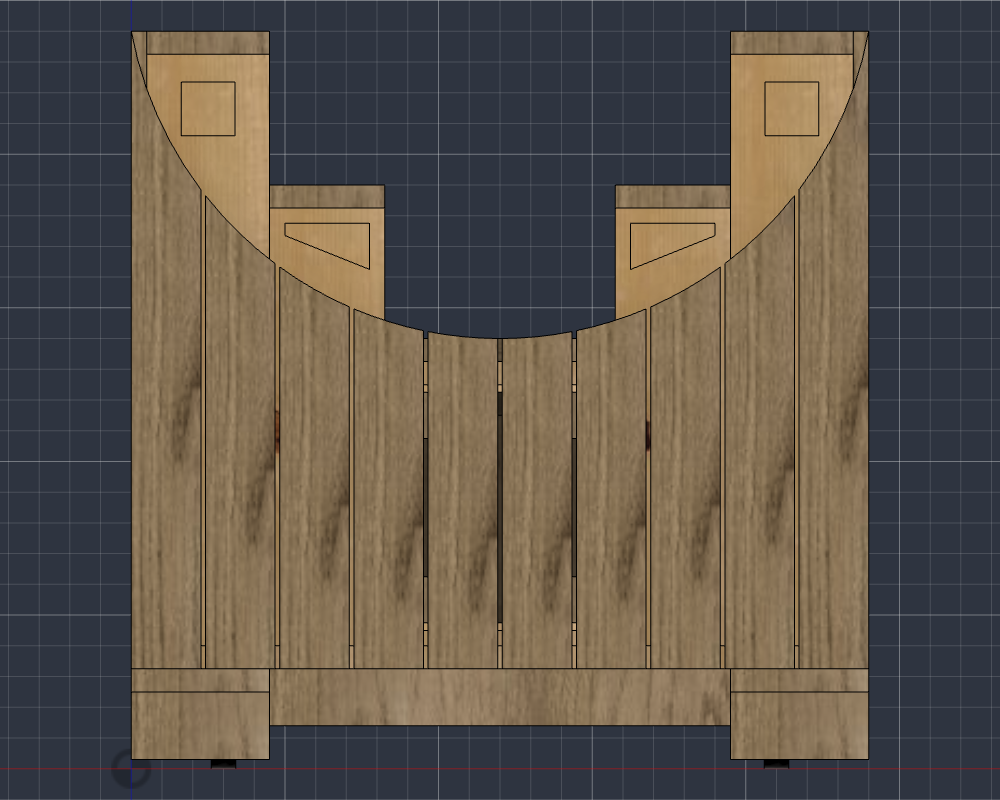
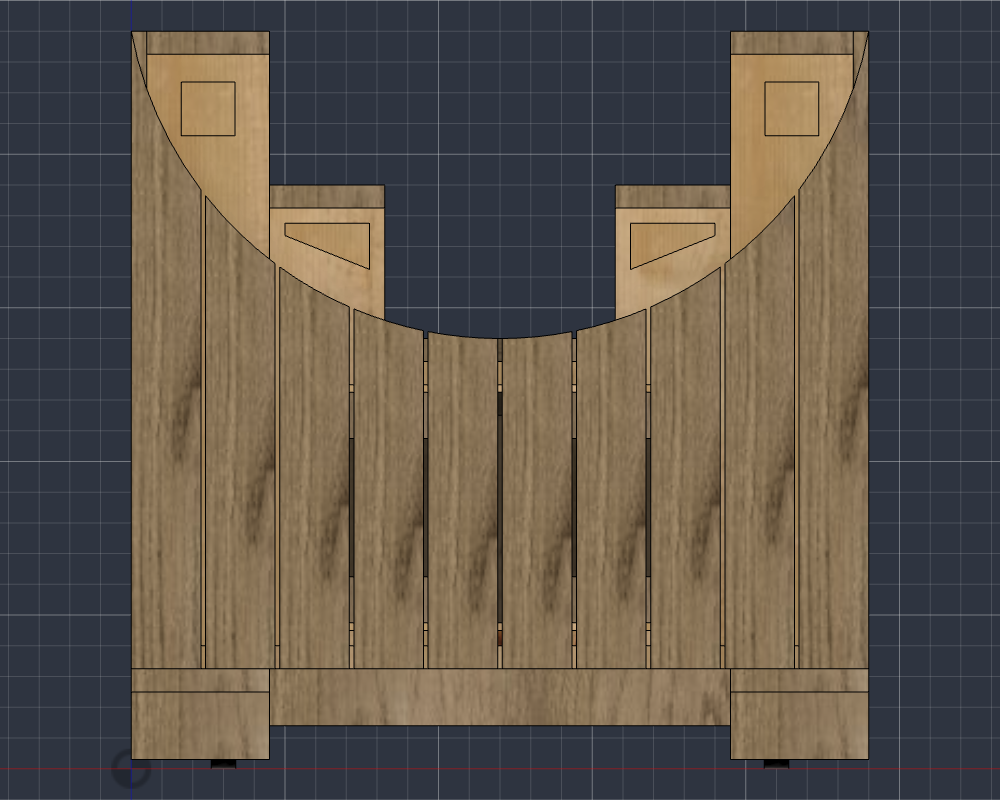
Cabinet: doors and drawer span the centre and both step sections
The doors and the pull-out drawer now use the whole middle of the front instead of only the 7.5 in centre
section: one front panel, no dividers D2/D3, a single bay with a 12 1/4 in wide drawer (was 5 3/4 in), and
shelves over the bay for the step compartments above (door_span="wide" default, "centre" keeps the old
layout). The drawer is narrowed so it clears the open doors; the kernel caught that collision.
97 parts, zero interferences in the kernel and in live Fusion.

Claude-Session: https://claude.ai/code/session_017uaZNskFZj1b2HNuTtwSco

diff --git a/src/fusionwright/cabinet.py b/src/fusionwright/cabinet.py
@@ -4,9 +4,9 @@ What the sketch shows and this generator models:
   * 24" W x 24" H x 22.5" D, vertical oak slats on all four sides (10 across front/back, 6 per side)
   * a large circular scoop: the front (and, by default, back) slat tops follow one arc from the two top corners
     down to the centre height, so the slats are real arc-cut parts
-  * a pair of hinged front doors in the middle section (the framed panel under the scoop in the 3/4 view): two
-    slats on two oak battens each, two hinges per door on the outer edges, push-to-open (no visible pull), opening
-    onto the large centre compartment that holds one pull-out drawer
+  * a pair of hinged front doors across the middle three sections (the framed panel under the scoop in the 3/4
+    view), two hinges per door on the outer edges, push-to-open (no visible pull), opening onto one large bay that
+    holds a single pull-out drawer
   * five hinged lids/doors side by side at three heights: towers 24", steps 19", centre 14"
   * stepped plywood carcass behind the slats; the carcass boxes stand proud of the arc; dark square openings on the
     tower fronts and dark wedge openings on the step fronts act as the finger pulls
@@ -57,6 +57,7 @@ def build_cabinet(
     door_open_deg: float = 0.0,
     door_pull: str = "push",
     door_leaves: int = 2,
+    door_span: str = "wide",
     drawer: bool = True,
     drawer_out: float = 0.0,
     drawer_depth: float = 18.0,
@@ -88,14 +89,18 @@ def build_cabinet(
         raise ValueError("door_pull must be 'push' (push-to-open, nothing visible) or 'bar' (slim vertical pull).")
     if not 0.0 <= door_open_deg <= 120.0:
         raise ValueError("door_open_deg must be between 0 and 120 degrees (0 = closed).")
+    if door_span not in ("wide", "centre"):
+        raise ValueError("door_span must be 'wide' (doors and drawer across the centre and both step sections, the "
+                         "default) or 'centre' (only the centre section).")
     if door_leaves not in (1, 2):
         raise ValueError("door_leaves must be 2 (a pair of doors, the default) or 1 (a single door hinged on the left).")
     if not 6.0 <= drawer_depth <= 20.0:
         raise ValueError("drawer_depth must be between 6 and 20 in (18 in matches standard full-extension slides).")
     if not 0.0 <= drawer_out <= drawer_depth - 2.0:
         raise ValueError(f"drawer_out must be between 0 and drawer_depth - 2 ({drawer_depth - 2:g}) in.")
-    if drawer_out and not (door and door_open_deg):
-        raise ValueError("The drawer is behind the doors: open them (door_open_deg > 0) before pulling the drawer out.")
+    if drawer_out and not (door and door_open_deg >= 90.0):
+        raise ValueError("The drawer is behind the doors: open them (door_open_deg of at least 90) before pulling the "
+                         "drawer out.")
 
     # scoop arc through the two top corners, lowest at the centre
     half, sag = width / 2, tower_h - center_h
@@ -111,6 +116,9 @@ def build_cabinet(
     for w in section_widths:
         x_edges.append(x_edges[-1] + w)
     y_front, y_back = skin_t, depth - skin_t        # inside faces of the front / back skin
+    wide = bool(door) and door_span == "wide"
+    sec_a, sec_b = (1, 3) if wide else (2, 2)       # first / last section behind the doors
+    x_lo, x_hi = x_edges[sec_a], x_edges[sec_b + 1]
     carcass_z = base_z + ply_t
 
     p = Project(
@@ -126,7 +134,7 @@ def build_cabinet(
                     base_z=base_z, caster_h=caster_h, plate_t=plate_t, foot_arm=foot_arm, foot_t=foot_t,
                     foot_clear=foot_clear, apron_z=apron_z, arc_on_back=arc_on_back, open_deg=open_deg, door=door,
                     door_open_deg=door_open_deg, door_pull=door_pull,
-                    door_leaves=door_leaves, drawer=drawer, drawer_out=drawer_out, drawer_depth=drawer_depth,
+                    door_leaves=door_leaves, door_span=door_span, drawer=drawer, drawer_out=drawer_out, drawer_depth=drawer_depth,
                     section_widths=[round(w, 4) for w in section_widths], scoop_radius=round(R, 4),
                     scoop_sag=sag),
     )
@@ -139,9 +147,29 @@ def build_cabinet(
 
     # ---------------------------------------------------------------- plywood carcass (my proposal)
     box_board("Bottom panel", "bottom panel", PLY, skin_t, skin_t, base_z, inner_w, inner_d, ply_t, "x")
+    if wide:                                        # one front wall across the centre and both step sections
+        tops = [heights[i] - lid_t for i in range(5)]
+        pts = [(x_edges[1], carcass_z), (x_edges[4], carcass_z), (x_edges[4], tops[3]), (x_edges[3], tops[3]),
+               (x_edges[3], tops[2]), (x_edges[2], tops[2]), (x_edges[2], tops[1]), (x_edges[1], tops[1])]
+        ops = [sh.prism("xz", sh.polygon(pts), y_front, y_front + ply_t)]
+        ox0, ox1 = x_lo + 0.4, x_hi - 0.4
+        oz0, oz1 = carcass_z + 0.5, tops[2] - 0.75
+        ops.append(sh.box(ox0, y_front - 0.05, oz0, ox1 - ox0, ply_t + 0.1, oz1 - oz0, "cut"))
+        door_open_box.update(x0=ox0, x1=ox1, z0=oz0, z1=oz1)
+        for i in (1, 3):                            # the wedge finger openings stay on the step sections
+            zt = tops[i] - 0.5
+            xa, xb = x_edges[i] + 0.5, x_edges[i + 1] - 0.5
+            wp = ([(xa, zt), (xb, zt), (xb, zt - 1.5), (xa, zt - 0.4)] if i == 1
+                  else [(xa, zt), (xb, zt), (xb, zt - 0.4), (xa, zt - 1.5)])
+            ops.append(sh.prism("xz", sh.polygon(wp), y_front - 0.05, y_front + ply_t + 0.05, "cut"))
+        add(Board.from_shape("Front wall S2-S4", "front wall", PLY, ops, None, "x",
+                             f"one panel across the three middle sections; {ox1 - ox0:.1f} in wide door opening for "
+                             "the doors and drawer, wedge finger openings above"))
     for i in range(5):
         wall_top = heights[i] - lid_t
         for side, y0 in (("Front", y_front), ("Back", y_back - ply_t)):
+            if wide and side == "Front" and i in (1, 2, 3):
+                continue
             sx0, sw = x_edges[i], section_widths[i]
             ops = [sh.box(sx0, y0, carcass_z, sw, ply_t, wall_top - carcass_z)]
             note = ""
@@ -150,7 +178,7 @@ def build_cabinet(
                 top = wall_top - 0.9
                 ops.append(sh.box(cx - s / 2, y0 - 0.05, top - s, s, ply_t + 0.1, s, "cut"))
                 note = "1-3/4 in square finger opening"
-            elif side == "Front" and i == 2 and door:              # access opening behind the front door
+            elif side == "Front" and i == 2 and door and not wide:  # access opening behind the front door
                 ox0, ox1 = sx0 + 0.4, sx0 + sw - 0.4
                 oz0, oz1 = carcass_z + 0.5, wall_top - 0.75
                 ops.append(sh.box(ox0, y0 - 0.05, oz0, ox1 - ox0, ply_t + 0.1, oz1 - oz0, "cut"))
@@ -170,9 +198,18 @@ def build_cabinet(
     box_board("End wall right", "end wall", PLY, width - skin_t - ply_t, y_front + ply_t, carcass_z, ply_t, wall_d,
               end_h, "y")
     for k in range(1, 5):
+        if wide and k in (2, 3):                    # the drawer bay runs through the middle: no dividers inside it
+            continue
         div_h = min(heights[k - 1], heights[k]) - lid_t - carcass_z
         box_board(f"Divider D{k}", "divider", PLY, x_edges[k] - ply_t / 2, y_front + ply_t, carcass_z, ply_t, wall_d,
                   div_h, "y")
+
+    if wide:                                        # shelves over the drawer bay roof the step compartments
+        bay_top = heights[2] - lid_t
+        for nm, xa, xb in (("Bay shelf S2", x_edges[1] + ply_t / 2, x_edges[2]),
+                           ("Bay shelf S4", x_edges[3], x_edges[4] - ply_t / 2)):
+            box_board(nm, "shelf", PLY, xa, y_front + ply_t, bay_top - ply_t, xb - xa, wall_d, ply_t, "x",
+                      "floor of the step compartment above, roof of the drawer bay")
 
     # ---------------------------------------------------------------- hinged lids / doors (hinged at the back)
     for i in range(5):
@@ -191,13 +228,13 @@ def build_cabinet(
 
     # ---------------------------------------------------------------- vertical oak slats, four sides
     sw_x, pitch_x = _slats(width, front_slats, slat_gap)
-    # front slats whose centre falls inside the centre section form the door(s)
+    # front slats whose centre falls inside the door span form the door(s)
     door_js = [j for j in range(front_slats)
-               if door and x_edges[2] < j * pitch_x + sw_x / 2 < x_edges[3]]
+               if door and x_lo < j * pitch_x + sw_x / 2 < x_hi]
     if door and not door_js:
-        raise ValueError("The centre section is too narrow for a door: use fewer front_slats or a wider section.")
+        raise ValueError("The door span is too narrow for a door: use fewer front_slats or a wider section.")
     if door and door_leaves == 2 and len(door_js) < 2:
-        raise ValueError("Two doors need at least two slats in the centre section: use more front_slats or door_leaves=1.")
+        raise ValueError("Two doors need at least two slats in the door span: use more front_slats or door_leaves=1.")
     leaves: list[dict] = []                           # each leaf: slat indices, hinge edge, name, rotation
     if door_js:
         if door_leaves == 2:
@@ -263,14 +300,20 @@ def build_cabinet(
     # ---------------------------------------------------------------- pull-out drawer behind the doors
     if door_js and drawer:
         t_d = 0.5                                                     # drawer sides / front / back (solid oak)
-        cx_c = (x_edges[2] + x_edges[3]) / 2
-        dw = (section_widths[2] - ply_t) - 1.0                        # 1/2 in each side for the slides
+        cx_c = (x_lo + x_hi) / 2
+        dw = (x_hi - x_lo - ply_t) - 1.0                              # 1/2 in each side for the slides
+        # doors standing open at 90 deg reach 1 in in front of their hinge edge: keep the drawer clear of them
+        reach = 1.0 + 0.05
+        left_lim = next((lf["x0"] + reach for lf in leaves if lf["hinge"] == "left"), x_lo)
+        right_lim = next((lf["x1"] - reach for lf in leaves if lf["hinge"] == "right"), x_hi)
+        half_w = min(dw / 2, cx_c - left_lim, right_lim - cx_c)
+        dw = 2 * half_w
         dx0 = cx_c - dw / 2
         dz0 = door_open_box["z0"] + 0.25
         dh = (door_open_box["z1"] - door_open_box["z0"]) - 0.5
         dy0 = y_front + ply_t - drawer_out                            # front of the drawer, just behind the front wall
         if dw > door_open_box["x1"] - door_open_box["x0"] - 0.25:
-            raise ValueError("The drawer would not fit through the door opening: widen the centre section.")
+            raise ValueError("The drawer would not fit through the door opening: widen the sections behind the doors.")
         front_ops = [sh.box(dx0, dy0, dz0, dw, t_d, dh),
                      sh.box(cx_c - 2.0, dy0 - 0.05, dz0 + dh - 0.75, 4.0, 0.3, 0.8, "cut")]    # finger notch, top edge
         add(Board.from_shape("Drawer front", "drawer", OAK, front_ops, None, "x",
@@ -329,11 +372,12 @@ def build_cabinet(
     p.hardware.append({"item": f"Swivel caster, {caster_h} in overall height (2 locking)", "qty": 4, "for": "feet"})
 
     p.notes += [
-        "Front doors: the framed panel under the scoop in the 3/4 view is a pair of doors (two slats on two battens each, "
-        "two hinges per door on the outer edges, push-to-open so nothing shows on the front) onto the large centre "
-        "compartment, which holds one pull-out drawer on 18 in full-extension slides. The other compartments open "
-        "through their lids. door_leaves=1 gives a single door, door=False none, drawer=False an empty compartment; "
-        "door_open_deg=90 and drawer_out=12 show it open.",
+        "Front doors: the framed panel under the scoop in the 3/4 view is a pair of doors with two hinges per door on "
+        "the outer edges, push-to-open so nothing shows on the front. With door_span='wide' (default) they span the "
+        "centre and both step sections, so the doors open onto one big bay holding a single pull-out drawer on 18 in "
+        "full-extension slides, and the step lids open onto compartments above the bay. door_span='centre' keeps the "
+        "doors and drawer to the centre section only; door_leaves=1 gives a single door, door=False none, "
+        "drawer=False an empty bay; door_open_deg=90 and drawer_out=12 show it open.",
         "Read from the sketch: arc-cut slat tops, five lids at 24/19/14 in, stepped boxes, L-shaped corner feet hiding "
         "four casters (plate screwed under a top plate), slats stopping above the floor on an apron.",
         "Interpretations to confirm with the designer: the dark squares (tower fronts) and dark wedges (step fronts) "

diff --git a/tests/unit/test_core.py b/tests/unit/test_core.py
@@ -43,16 +43,21 @@ def test_sketch_details_are_present():
     assert sum(n.endswith("wheel") for n in names) == 4 and sum(n.endswith("top plate") for n in names) == 4
     # wedge and square openings are cuts through the plywood fronts
     cuts = [b for b in p.boards if b.shape and any(o["op"] == "cut" for o in b.shape)]
-    assert len(cuts) >= 6
+    assert len(cuts) >= 5
 
 
 def test_front_doors_open_onto_the_centre_compartment_with_a_drawer():
     p = build_cabinet()
     doors = [b for b in p.boards if "(door" in b.name]
-    assert len(doors) == 4 and sum(b.name.startswith("Door") and "batten" in b.name for b in p.boards) == 4
-    assert {b.name.split("(")[1] for b in doors} == {"door L)", "door R)"}          # two leaves, two slats each
-    wall = next(b for b in p.boards if b.name == "Front wall S3")
+    assert len(doors) == 6 and sum(b.name.startswith("Door") and "batten" in b.name for b in p.boards) == 4
+    assert {b.name.split("(")[1] for b in doors} == {"door L)", "door R)"}          # two leaves, three slats each
+    wall = next(b for b in p.boards if b.name == "Front wall S2-S4")      # one panel across centre + both steps
     assert any(o["op"] == "cut" for o in wall.shape)                     # the opening the doors cover
+    assert not any(b.name in ("Divider D2", "Divider D3") for b in p.boards)       # the bay runs through the middle
+    assert {b.name for b in p.boards if b.group == "shelf"} == {"Bay shelf S2", "Bay shelf S4"}
+    narrow = build_cabinet(door_span="centre")
+    assert len([b for b in narrow.boards if "(door" in b.name]) == 4 and any(b.name == "Divider D2" for b in narrow.boards)
+    assert next(b for b in p.boards if b.name == "Drawer front").sx > 3 * next(b for b in narrow.boards if b.name == "Drawer front").sx / 1.5
     hinge = next(h for h in p.hardware if "Butt hinge 1-1/2" in h["item"])
     assert hinge["qty"] == 4                                             # two hinges on each door
     assert any("Push-to-open" in h["item"] and h["qty"] == 2 for h in p.hardware)    # nothing visible on the front
@@ -61,7 +66,7 @@ def test_front_doors_open_onto_the_centre_compartment_with_a_drawer():
     assert {b.name for b in drawer} == {"Drawer front", "Drawer back", "Drawer side left", "Drawer side right",
                                         "Drawer bottom"}
     assert any("drawer slides" in h["item"] for h in p.hardware)
-    opening = next(b for b in p.boards if b.name == "Front wall S3")
+    opening = wall
     assert all(b.y >= opening.y + opening.sy - 1e-9 for b in drawer)     # all behind the front wall when closed
     bar = build_cabinet(door_pull="bar")
     assert sum(b.name.endswith("pull bar") for b in bar.boards) == 2 and bar.overall()[1] > 22.5
@@ -74,7 +79,7 @@ def test_front_doors_open_onto_the_centre_compartment_with_a_drawer():
     out_front = next(b for b in opened.boards if b.name == "Drawer front")
     assert out_front.y == pytest.approx(next(b for b in p.boards if b.name == "Drawer front").y - 12)
     assert not any("(door" in b.name for b in build_cabinet(door=False).boards)
-    assert len([b for b in build_cabinet(door_leaves=1).boards if "(door)" in b.name]) == 4
+    assert len([b for b in build_cabinet(door_leaves=1).boards if "(door)" in b.name]) == 6
     assert not any(b.group == "drawer" for b in build_cabinet(drawer=False).boards)
 
 
@@ -182,10 +187,14 @@ def test_bad_params_are_explained():
         build_cabinet(base_z=2.0)
     with pytest.raises(ValueError, match="door_pull"):
         build_cabinet(door_pull="knob")
+    with pytest.raises(ValueError, match="door_span"):
+        build_cabinet(door_span="everywhere")
     with pytest.raises(ValueError, match="door_leaves"):
         build_cabinet(door_leaves=3)
     with pytest.raises(ValueError, match="open them"):
         build_cabinet(drawer_out=5)                    # the drawer is behind closed doors
+    with pytest.raises(ValueError, match="open them"):
+        build_cabinet(door_open_deg=45, drawer_out=5)  # doors only half open
     with pytest.raises(ValueError, match="drawer_out"):
         build_cabinet(door_open_deg=90, drawer_out=40)
     with pytest.raises(ValueError, match="door_open_deg"):

diff --git a/src/fusionwright/server.py b/src/fusionwright/server.py
@@ -248,14 +248,14 @@ def wood_design_cabinet(width: float = 24.0, depth: float = 22.5, tower_h: float
                         skin_t: float = 0.5, ply_t: float = 0.75, lid_t: float = 0.75, base_z: float = 3.25,
                         caster_h: float = 2.5, foot_arm: float = 4.5, arc_on_back: bool = True,
                         open_deg: float = 0.0, door: bool = True, door_open_deg: float = 0.0,
-                        door_pull: str = "push", door_leaves: int = 2, drawer: bool = True,
+                        door_pull: str = "push", door_leaves: int = 2, door_span: str = "wide", drawer: bool = True,
                         drawer_out: float = 0.0, drawer_depth: float = 18.0,
                         section_widths: list[float] | None = None,
                         name: str = "Rolling oak slat cabinet") -> dict:
     """Design the rolling oak-slat cabinet from the hand sketch (inches): vertical oak slats on four sides, a circular
     scoop cut through the slat tops, five hinged lids at 24/19/14 in, stepped plywood boxes with finger openings,
-    a pair of push-to-open front doors (2 hinges each) onto the large centre compartment, which holds one pull-out
-    drawer (door_open_deg=90 and drawer_out=12 show them open; door_pull='bar' adds slim vertical pulls;
+    a pair of push-to-open front doors (2 hinges each) across the centre and both step sections (door_span='centre'
+    for the centre only) onto one large bay holding a pull-out drawer (door_open_deg=90 and drawer_out=12 show them open; door_pull='bar' adds slim vertical pulls;
     door_leaves=1 gives one door), and four L-shaped corner feet that hide swivel casters. open_deg shows the lids
     hinged open (try 30).
     Writes cut list, three-view drawing, sheet layout, STL, OBJ, project.json and, if CadQuery is installed, an exact
@@ -265,7 +265,7 @@ def wood_design_cabinet(width: float = 24.0, depth: float = 22.5, tower_h: float
                           front_slats=front_slats, side_slats=side_slats, slat_gap=slat_gap, skin_t=skin_t,
                           ply_t=ply_t, lid_t=lid_t, base_z=base_z, caster_h=caster_h, foot_arm=foot_arm,
                           arc_on_back=arc_on_back, open_deg=open_deg, door=door, door_open_deg=door_open_deg, door_pull=door_pull,
-                          door_leaves=door_leaves, drawer=drawer, drawer_out=drawer_out, drawer_depth=drawer_depth,
+                          door_leaves=door_leaves, door_span=door_span, drawer=drawer, drawer_out=drawer_out, drawer_depth=drawer_depth,
                           section_widths=section_widths, name=name)
     except ValueError as e:
         raise ToolError(str(e))

diff --git a/tests/unit/test_mcp_server.py b/tests/unit/test_mcp_server.py
@@ -114,7 +114,7 @@ def test_cad_check_and_export_on_the_cabinet(tmp_path):
             await c.call_tool("wood_design_cabinet", {"open_deg": 30})
             chk = await c.call_tool("cad_check", {})
             data = json.loads(_text(chk))
-            assert data["parts"] == 99 and data["all_valid"] is True and data["problems"] == []
+            assert data["parts"] == 97 and data["all_valid"] is True and data["problems"] == []
             tall = json.loads(_text(await c.call_tool("cad_check", {"expected_size_in": [24, 22.5, 24]})))
             assert tall["passed"] is False and "Z size" in tall["problems"][0]      # open lids rise above 24 in
             ex = await c.call_tool("cad_export", {"format": "step"})

diff --git a/README.md b/README.md
@@ -90,7 +90,7 @@ The core tools know nothing about furniture. Each `fusion_*` / `cad_*` call stan
 |---|---|---|
 | [`examples/enclosure_cadquery.py`](examples/enclosure_cadquery.py) | open source (`cad_run`) | shell, fillets, hole patterns, slots, multi-part colours |
 | [`examples/flange_fusion_run.py`](examples/flange_fusion_run.py) | Fusion (`fusion_run`) | sketches, extrude/join/cut, picking profiles by area, checking against hand arithmetic |
-| [Woodworking add-on](#woodworking-add-on-an-end-to-end-example) | both | a 99-part design, cut list, drawings, hinged parts, built in Fusion |
+| [Woodworking add-on](#woodworking-add-on-an-end-to-end-example) | both | a 97-part design, cut list, drawings, hinged parts, built in Fusion |
 
 ## Make your own add-on
 
@@ -102,7 +102,7 @@ Describe a piece of furniture; get a verified Fusion model, a cut list, a sheet-
 
 ![Rolling oak slat cabinet, rendered by Fusion](docs/examples/woodworking/render.png)
 
-> Built, rendered and checked end to end through this server, from a hand sketch: 99 named parts (arc-cut slats, hinged lids, a pair of push-to-open front doors with two hinges each, a pull-out drawer in the centre compartment, finger openings, L-shaped feet hiding four casters), 24 x 22.5 x 24 in, zero interferences, one 4x8 plywood sheet, ~10.5 board feet of oak (12 to buy). The Fusion model and the open-source CadQuery model agree to the cubic inch. How the sketch was read: [SKETCH_SPEC.md](docs/examples/woodworking/SKETCH_SPEC.md); the generated [cut list](docs/examples/woodworking/example_cutlist.md).
+> Built, rendered and checked end to end through this server, from a hand sketch: 97 named parts (arc-cut slats, hinged lids, a pair of push-to-open front doors with two hinges each across the middle three sections, one wide pull-out drawer behind them, finger openings, L-shaped feet hiding four casters), 24 x 22.5 x 24 in, zero interferences, one 4x8 plywood sheet, ~10.9 board feet of oak (12.6 to buy). The Fusion model and the open-source CadQuery model agree to the cubic inch. How the sketch was read: [SKETCH_SPEC.md](docs/examples/woodworking/SKETCH_SPEC.md); the generated [cut list](docs/examples/woodworking/example_cutlist.md).
 
 ![Same cabinet with the lids and both front doors open and the drawer pulled out, built with no Autodesk software](docs/examples/woodworking/open_iso_opensource.png)
 
@@ -110,7 +110,7 @@ Describe a piece of furniture; get a verified Fusion model, a cut list, a sheet-
 
 ![Builder drawing generated with no CAD](docs/examples/woodworking/drawing_three_view.svg)
 
-Try: *"Design a 24-inch rolling oak slat cabinet with three stepped lids, double push-to-open front doors and a pull-out drawer, build it in Fusion, check it and show me."* Details: `open_deg`, `door_open_deg` and `drawer_out` pose the lids, doors and drawer open; `door_pull="bar"` swaps the hidden push latches for slim vertical pulls; `door_leaves=1` gives a single door; `door=False` / `drawer=False` remove them.
+Try: *"Design a 24-inch rolling oak slat cabinet with three stepped lids, double push-to-open front doors and a pull-out drawer, build it in Fusion, check it and show me."* Details: `open_deg`, `door_open_deg` and `drawer_out` pose the lids, doors and drawer open; `door_pull="bar"` swaps the hidden push latches for slim vertical pulls; `door_span="centre"` limits the doors and drawer to the centre section; `door_leaves=1` gives a single door; `door=False` / `drawer=False` remove them.
 
 ## How it compares
 
@@ -124,7 +124,7 @@ See [SECURITY.md](SECURITY.md). In short: loopback only, bearer token (`~/.fusio
 ## What's tested
 
 * 30 unit tests: pure Python (including a signed-volume check that exported meshes are outward-facing and a proof that no cabinet boards overlap), the add-in's HTTP layer with a stubbed Fusion, a real stdio MCP round trip, and the open-source CAD backend (skipped when CadQuery is not installed).
-* Live tests against a real Fusion: build and kernel-verify the 99-part cabinet, views that must differ from each other, 5 export formats, a real render, rollback, API lookup, and a full MCP client round trip that returns images.
+* Live tests against a real Fusion: build and kernel-verify the 97-part cabinet, views that must differ from each other, 5 export formats, a real render, rollback, API lookup, and a full MCP client round trip that returns images.
 * A 30-case capability suite (`tests/integration/capability_suite.py`) covering sketches, constraints, extrude/cut/revolve/sweep/loft, fillet/shell/chamfer/hole, patterns, booleans, components + joints, parameters, timeline edits, materials, measurement, 8 export formats, STEP re-import, CAM setup creation, configurations, rendering and more.
 
 See [docs/COVERAGE.md](docs/COVERAGE.md) for what the Fusion API can and cannot do and [docs/GOTCHAS.md](docs/GOTCHAS.md) for API traps found along the way.

diff --git a/docs/examples/woodworking/example_cutlist.md b/docs/examples/woodworking/example_cutlist.md
@@ -14,22 +14,23 @@
 | 4 | White oak (solid) | 1/2" | 2 1/4" | 15 3/8" | Slat front 02, Slat front 09, Slat back 02 +1 more |
 | 2 | White oak (solid) | 1/2" | 1 7/8" | 15" | Apron front, Apron back |
 | 2 | White oak (solid) | 1/2" | 1 7/8" | 13 1/2" | Apron left, Apron right |
-| 4 | White oak (solid) | 1/2" | 2 1/4" | 13 1/8" | Slat front 03, Slat front 08, Slat back 03 +1 more |
+| 4 | White oak (solid) | 1/2" | 2 1/4" | 13 1/8" | Slat front 03 (door L), Slat front 08 (door R), Slat back 03 +1 more |
+| 2 | White oak (solid) | 1/2" | 7 1/2" | 12 1/4" | Drawer front, Drawer back |
 | 4 | White oak (solid) | 1/2" | 2 1/4" | 11 3/4" | Slat front 04 (door L), Slat front 07 (door R), Slat back 04 +1 more |
 | 4 | White oak (solid) | 1/2" | 2 1/4" | 11" | Slat front 05 (door L), Slat front 06 (door R), Slat back 05 +1 more |
-| 2 | White oak (solid) | 1/2" | 5 3/4" | 7 1/2" | Drawer front, Drawer back |
-| 4 | White oak (solid) | 1/2" | 1 1/2" | 3 3/16" | Door L batten low, Door L batten high, Door R batten low +1 more |
+| 4 | White oak (solid) | 1/2" | 1 1/2" | 6 15/16" | Door L batten low, Door L batten high, Door R batten low +1 more |
 | 1 | Birch plywood | 3/4" | 21 1/2" | 23" | Bottom panel |
 | 2 | Birch plywood | 3/4" | 19 1/4" | 20" | End wall left, End wall right |
 | 2 | Birch plywood | 3/4" | 14 1/4" | 20" | Divider D1, Divider D4 |
-| 2 | Birch plywood | 3/4" | 9 1/4" | 20" | Divider D2, Divider D3 |
+| 2 | Birch plywood | 3/4" | 3 3/8" | 20" | Bay shelf S2, Bay shelf S4 |
 | 4 | Birch plywood | 3/4" | 4" | 19 1/4" | Front wall S1, Back wall S1, Front wall S5 +1 more |
-| 4 | Birch plywood | 3/4" | 3 3/4" | 14 1/4" | Front wall S2, Back wall S2, Front wall S4 +1 more |
-| 2 | Birch plywood | 3/4" | 7 1/2" | 9 1/4" | Front wall S3, Back wall S3 |
-| 1 | Birch plywood | 1/4" | 4 3/4" | 17" | Drawer bottom |
+| 1 | Birch plywood | 3/4" | 14 1/4" | 15" | Front wall S2-S4 |
+| 2 | Birch plywood | 3/4" | 3 3/4" | 14 1/4" | Back wall S2, Back wall S4 |
+| 1 | Birch plywood | 3/4" | 7 1/2" | 9 1/4" | Back wall S3 |
+| 1 | Birch plywood | 1/4" | 11 1/4" | 17" | Drawer bottom |
 
-**Solid lumber:** 10.45 board feet net, buy about 12.0 bf (+15% waste).
-**Sheet goods:** 20.46 sq ft net (see the nesting layout for sheets to buy).
+**Solid lumber:** 10.87 board feet net, buy about 12.5 bf (+15% waste).
+**Sheet goods:** 19.85 sq ft net (see the nesting layout for sheets to buy).
 
 ## Hardware
 
@@ -47,7 +48,7 @@
 
 ## Notes
 
-- Front doors: the framed panel under the scoop in the 3/4 view is a pair of doors (two slats on two battens each, two hinges per door on the outer edges, push-to-open so nothing shows on the front) onto the large centre compartment, which holds one pull-out drawer on 18 in full-extension slides. The other compartments open through their lids. door_leaves=1 gives a single door, door=False none, drawer=False an empty compartment; door_open_deg=90 and drawer_out=12 show it open.
+- Front doors: the framed panel under the scoop in the 3/4 view is a pair of doors with two hinges per door on the outer edges, push-to-open so nothing shows on the front. With door_span='wide' (default) they span the centre and both step sections, so the doors open onto one big bay holding a single pull-out drawer on 18 in full-extension slides, and the step lids open onto compartments above the bay. door_span='centre' keeps the doors and drawer to the centre section only; door_leaves=1 gives a single door, door=False none, drawer=False an empty bay; door_open_deg=90 and drawer_out=12 show it open.
 - Read from the sketch: arc-cut slat tops, five lids at 24/19/14 in, stepped boxes, L-shaped corner feet hiding four casters (plate screwed under a top plate), slats stopping above the floor on an apron.
 - Interpretations to confirm with the designer: the dark squares (tower fronts) and dark wedges (step fronts) are modelled as finger openings through the plywood front wall; the tilted blocks in the 3/4 view are the lids shown open (use open_deg); the scoop is cut in both the front and the back skin (arc_on_back).
 - My proposal, not in the sketch: plywood carcass, dividers, lid hinges at the back, centre-lid finger notch, apron height, caster size.

diff --git a/docs/examples/woodworking/SKETCH_SPEC.md b/docs/examples/woodworking/SKETCH_SPEC.md
@@ -16,13 +16,13 @@ column "Certainty" says how sure the reading is.
 | 8 | Slat panel stops above the floor; a band between the feet in the frontal and lateral views | oak apron on all four sides between the feet | high |
 | 9 | Four L-shaped corner feet in plan view, each with a circle (wheel) inside | each foot is two oak walls forming an L plus a top plate; a swivel caster (plate, swivel, two fork plates, wheel) is hidden inside | high |
 | 10 | Inset drawing: wheel mounted under a plate | caster plate screwed under the foot top plate; wheel clears the floor line by design | high |
-| 11 | A framed panel of vertical bars under the scoop in the 3/4 view, described by the designer as two doors on the front, two hinges on each door, with a large space inside for one pull-out drawer | front doors: the four centre slats split into two leaves (two slats on two oak battens each), two butt hinges per door on the outer edges, push-to-open with a hidden magnetic latch on each so nothing shows on the front (`door_pull="bar"` adds slim vertical pulls instead), opening onto the centre compartment through a 6 3/4 in wide opening in the plywood front wall. Inside, one oak drawer (5 3/4 in wide, 18 in deep) on full-extension slides, finger notch in its top edge. `door_leaves=1` gives a single door, `door=False` / `drawer=False` remove them, `door_open_deg=90` and `drawer_out=12` show it open | high (designer's words) for the doors and drawer, medium for the exact location |
+| 11 | A framed panel of vertical bars under the scoop in the 3/4 view, described by the designer as two doors on the front, two hinges on each door, with a large space inside for one pull-out drawer; the designer then pointed out the spaces left and right of the centre should be used too | front doors: the six front slats across the centre and both step sections form two leaves (three slats on two oak battens each), two butt hinges per door on the outer edges, push-to-open with a hidden magnetic latch on each so nothing shows on the front (`door_pull="bar"` adds slim vertical pulls instead). They open onto one bay, 14 in wide, through a single 14 1/4 in opening in one plywood front panel (the dividers D2 and D3 are dropped). Inside, one oak drawer 12 1/4 in wide x 18 in deep on full-extension slides, narrowed so it clears the open doors, with a finger notch in its top edge; shelves over the bay roof the step compartments above, which still open through their lids. `door_span="centre"` keeps it to the centre section, `door_leaves=1` gives one door, `door=False` / `drawer=False` remove them, `door_open_deg=90` and `drawer_out=12` show it open | high (designer's words) for the doors and drawer, medium for the exact extent |
 | 12 | Small notch at the front of the top strip | half-round finger notch in the centre lid | low |
 
 Not in the sketch (my engineering proposal, flagged in `project.notes`): the plywood carcass behind the slats, the
 dividers, lid hinges (2 per lid), apron height, caster size, and the exact finger-opening shapes.
 
-The other four compartments are reached through their lids; the sketch shows no other door.
+The tower compartments, and the step compartments above the bay, are reached through their lids; the sketch shows no other door.
 
 Questions worth confirming with the designer before cutting wood: (a) is the scoop also cut in the back? (default
 yes, `arc_on_back=False` for a plain back), (b) are the tilted blocks open lids, (c) do the dark squares/wedges mean
